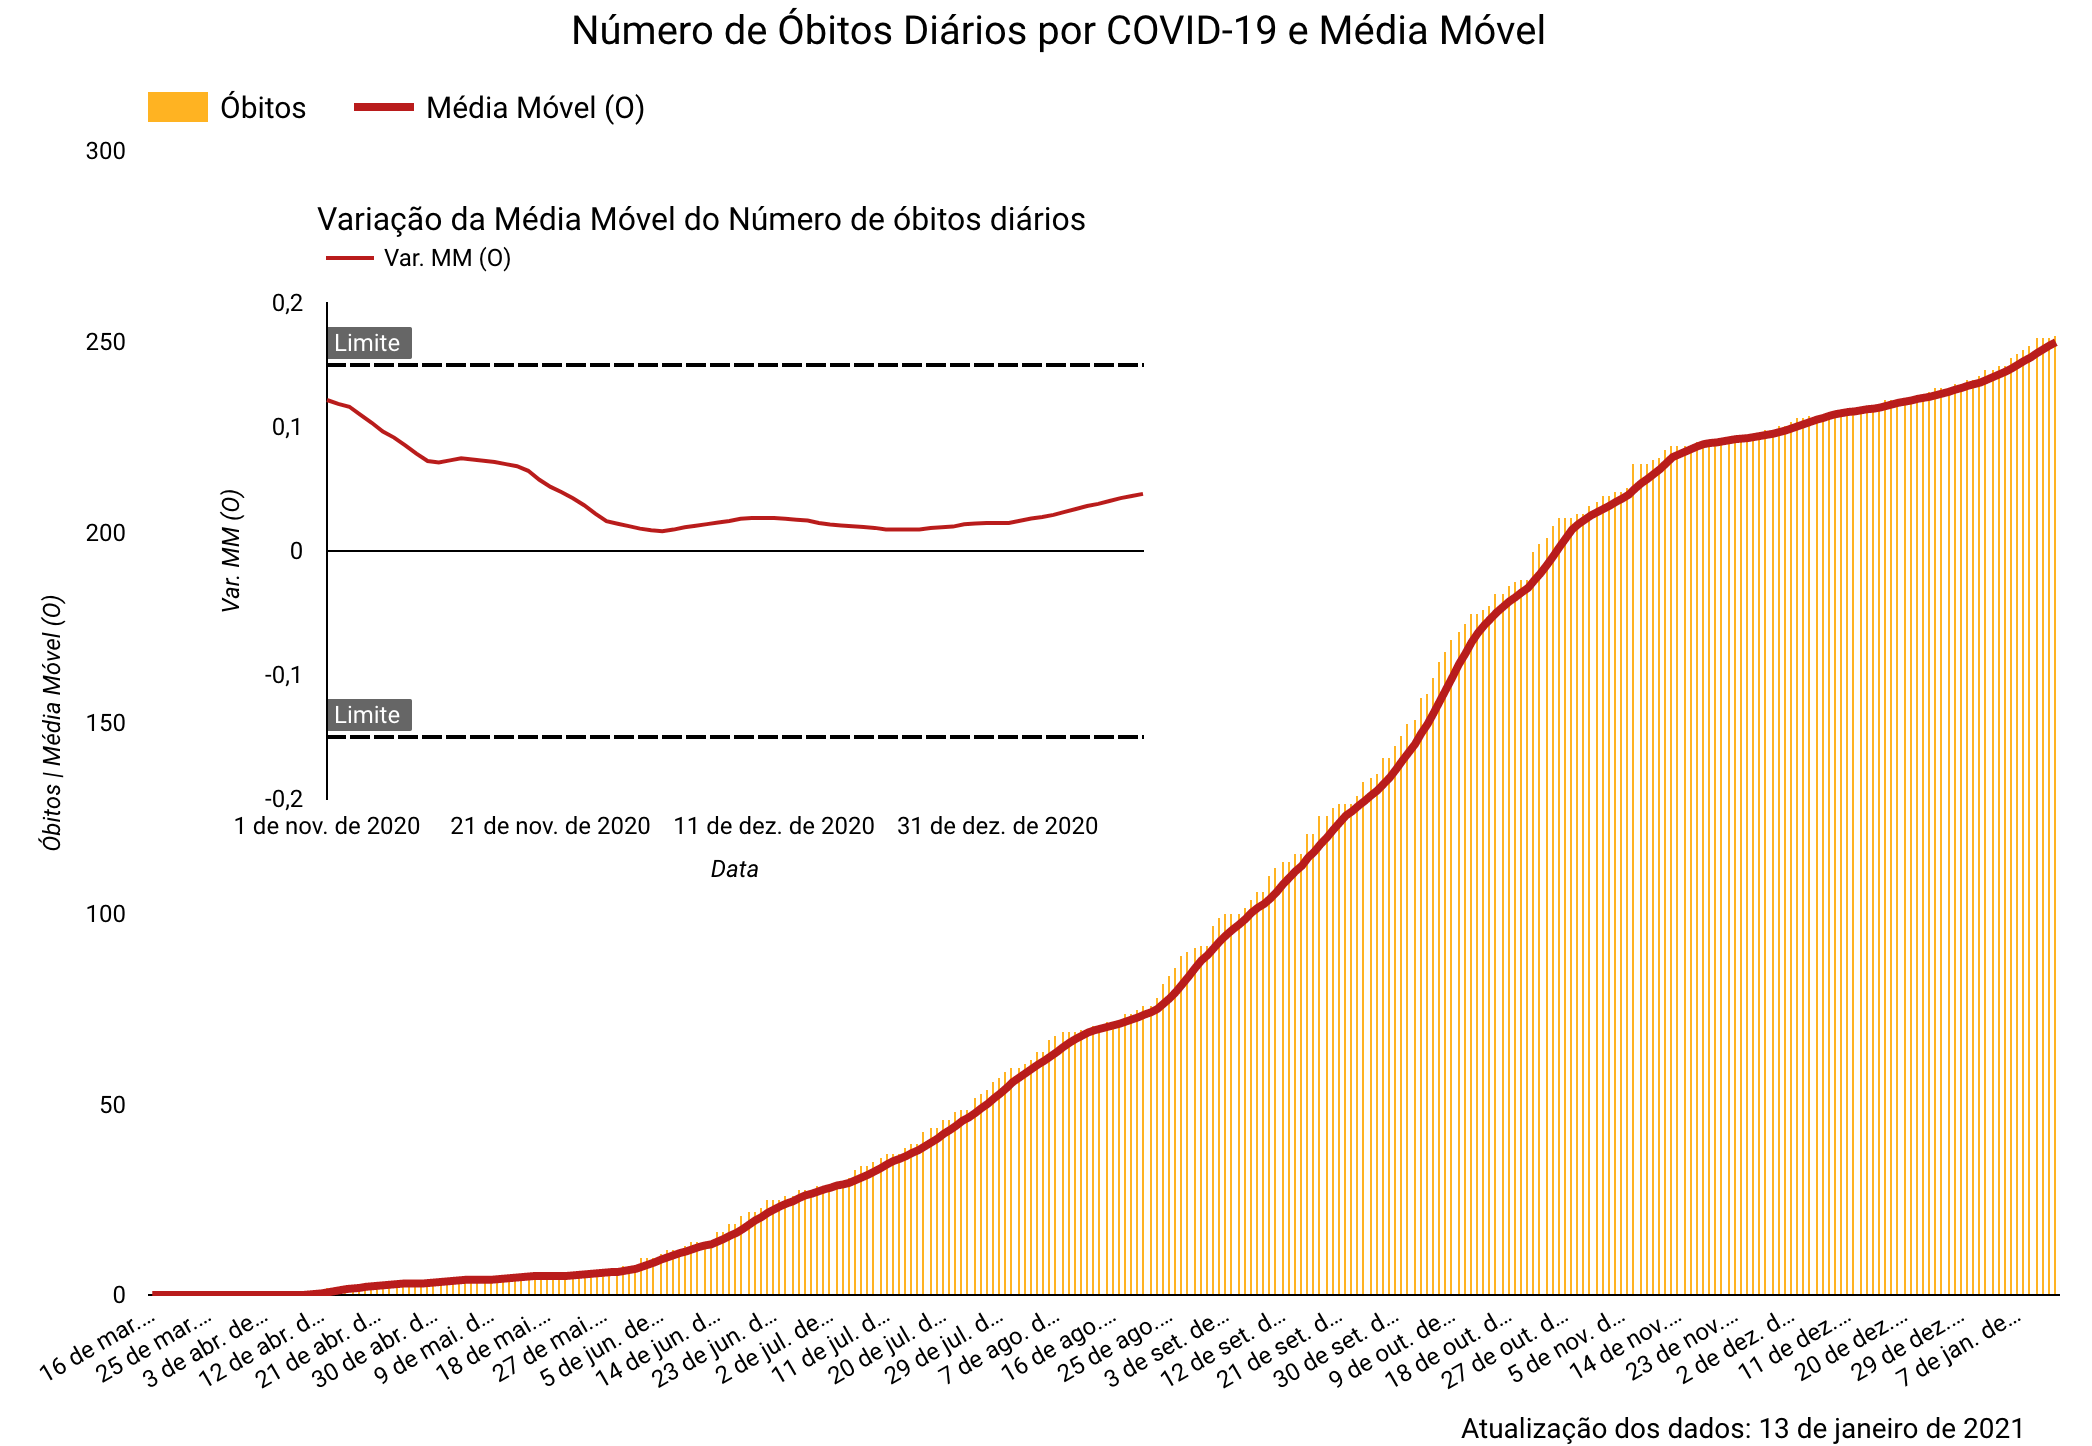
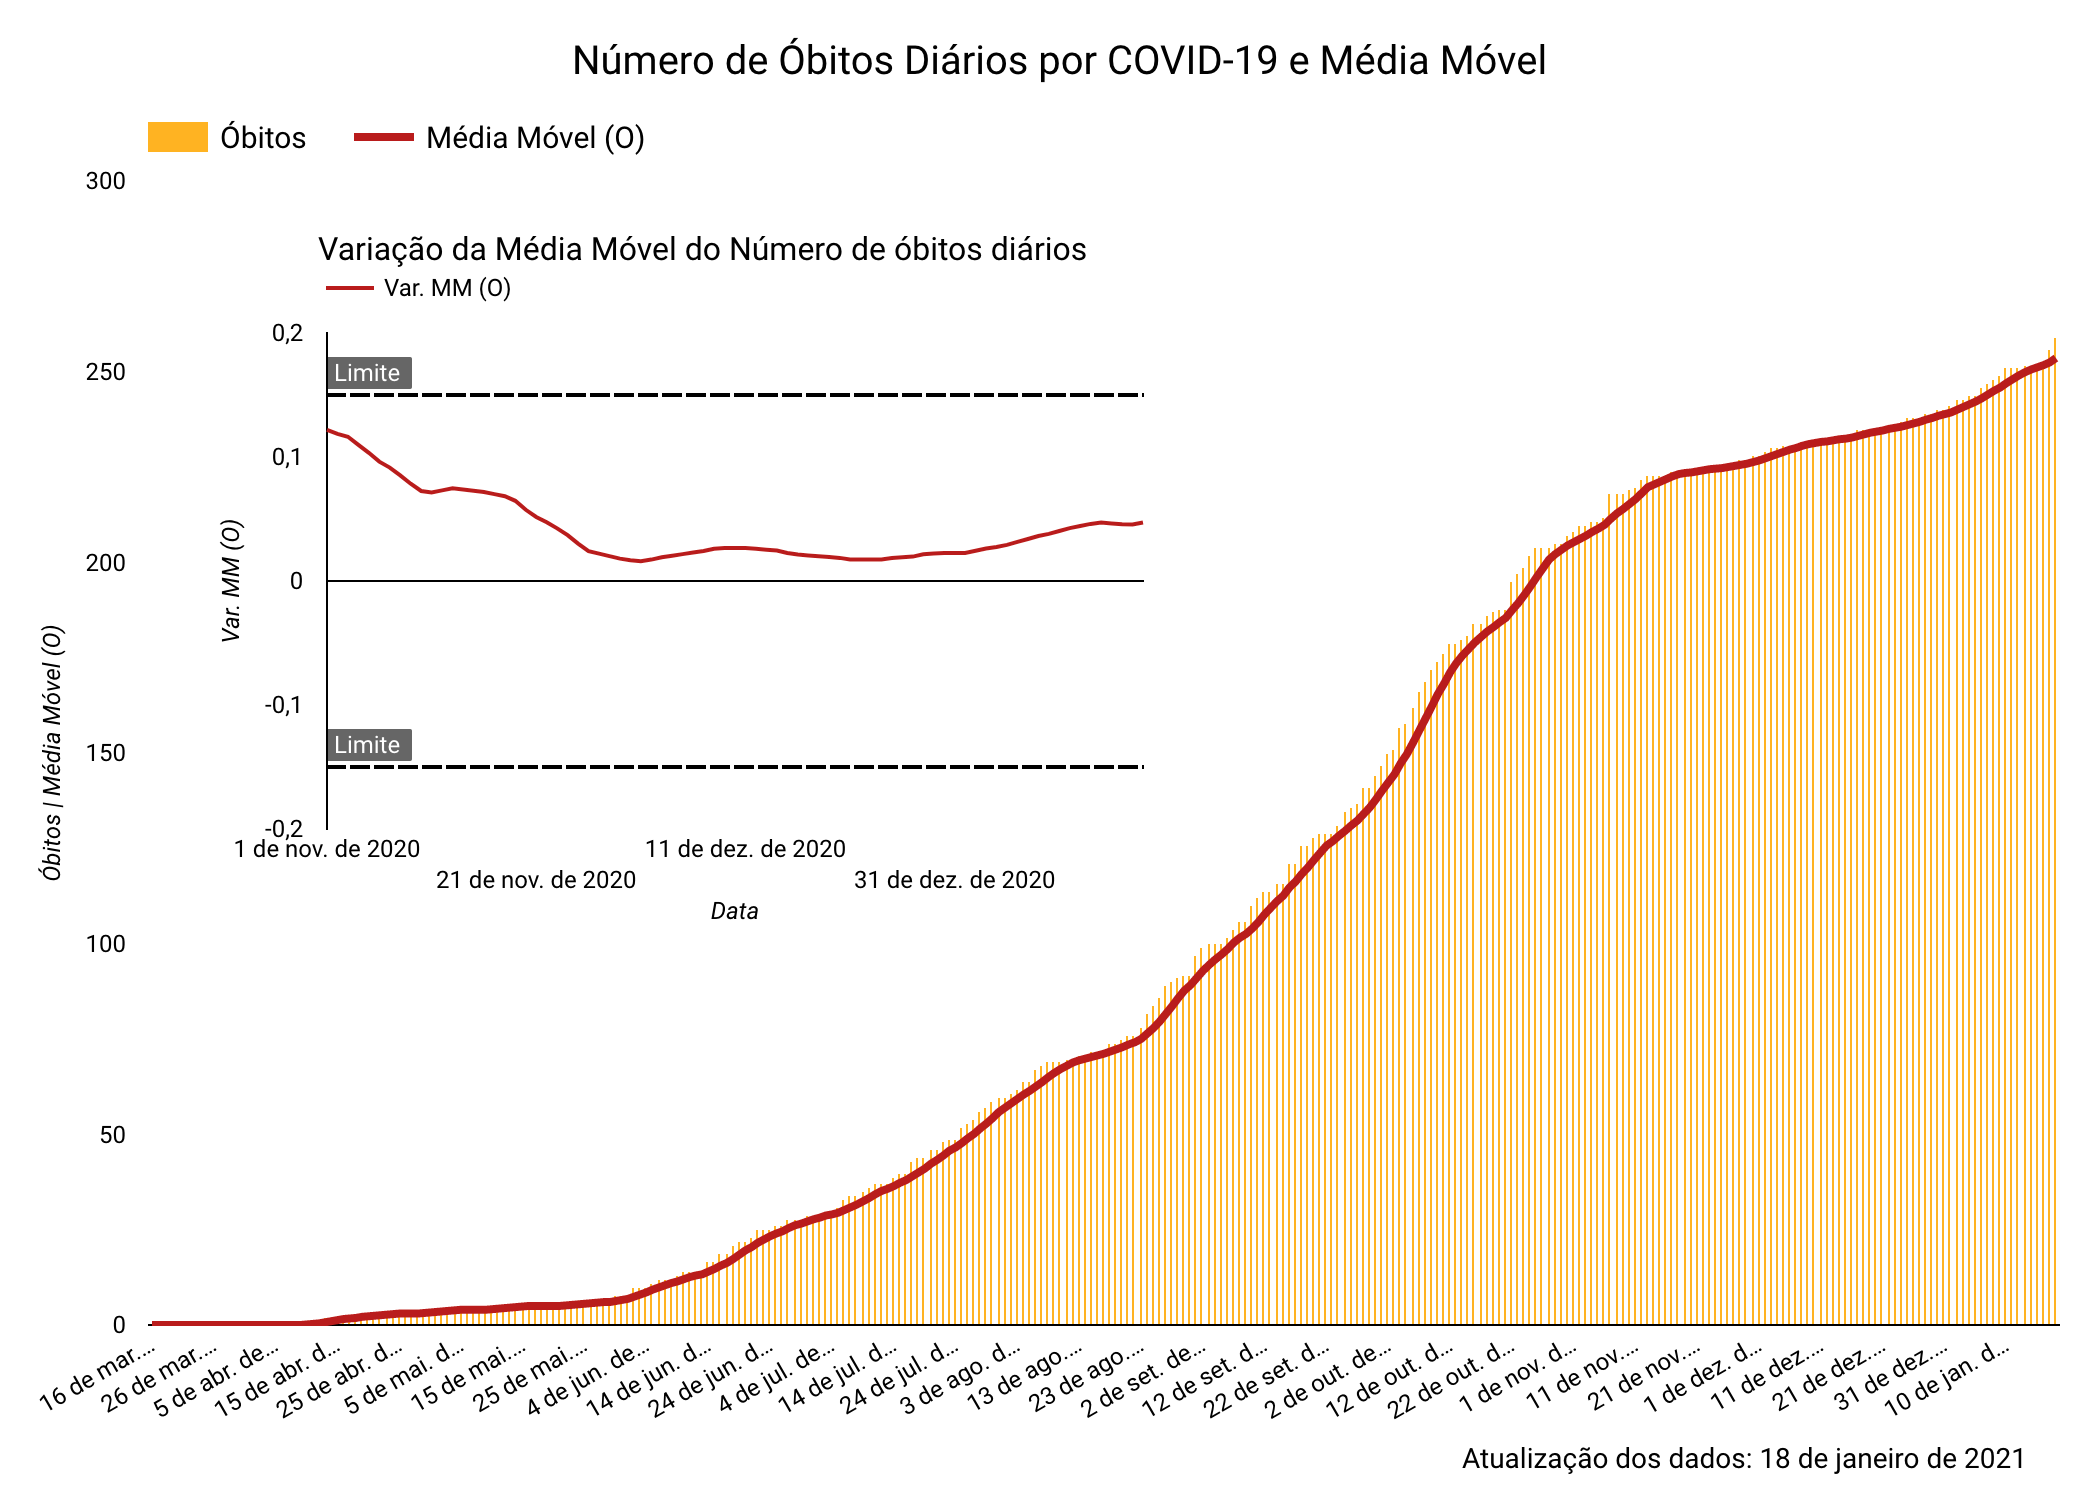
atualizacao

diff --git a/index.html b/index.html
@@ -135,7 +135,7 @@
               <!-- CARD.TITLE.TEXT -->
               <h2 class="display">Casos de Uberaba</h2>
             <!--/a-->
-            <p class="card-text">Dados e projeções para o município de Uberaba, informações até o dia 13 de janeiro de 2021. Informações coletadas com a própria Secretaria Municipal de Saúde de Uberaba e pelo monitoramento diário</p>
+            <p class="card-text">Dados e projeções para o município de Uberaba, informações até o dia 18 de janeiro de 2021. Informações coletadas com a própria Secretaria Municipal de Saúde de Uberaba e pelo monitoramento diário</p>
             <!-- CARD.TITLE.DESCRIPTION -->
           </div>
         </div>
@@ -147,8 +147,8 @@
 
         <p class="text-justify mt-3">
             <ul>
-            <li>No dia de hoje (13/01/2021), acumulamos 10964 casos notificados.</li>
-            <li>Projeção para dia 18 de janeiro é de 11423 podendo chegar até 11931 casos notificados, como indicado pela faixa cinza.</li>
+            <li>No dia de hoje (18/01/2021), acumulamos 11421 casos notificados.</li>
+            <li>Projeção para dia 23 de janeiro é de 11778 podendo chegar até 12289 casos notificados, como indicado pela faixa cinza.</li>
             <li>Pontos pretos: número de casos confirmados a cada dia.</li>
             <li>Pontos laranjas: a previsão para os próximos 5 dias.</li>
             </ul>
@@ -271,11 +271,11 @@
         Duas taxas dão importantes quando precisa entender o número de óbitos de uma doença,  a taxa de letalidade e a taxa de mortalidade. A letalidade é uma taxa que compara o número de óbitos com a quantidade de pessoas infectadas pela doença. A mortalidade é um índice obtido por uma relação dos óbitos por uma causa específica em um determinado período de tempo para cada 100.000 habitantes da área analisada.
 
         <p class="text-justify mt-3">
-        <li> A <b> taxa de letalidade </b> é calculada como o número total de óbitos dividido pelo número total de casos confirmados. Hoje, a taxa de letalidade de Uberaba é de 2,29%.</li>
+        <li> A <b> taxa de letalidade </b> é calculada como o número total de óbitos dividido pelo número total de casos confirmados. Hoje, a taxa de letalidade de Uberaba é de 2,27%.</li>
         </p>
 
         <p class="text-justify mt-3">
-        <li>A <b>taxa de mortalidade </b> é calculada considerando o número de óbitos pelo número total da população de Uberaba vezes 100 mil.Hoje, a taxa de mortalidade é de 75,5/100mil habitantes. </li>
+        <li>A <b>taxa de mortalidade </b> é calculada considerando o número de óbitos pelo número total da população de Uberaba vezes 100 mil.Hoje, a taxa de mortalidade é de 77,6/100mil habitantes. </li>
         </p>
 
         <p class="text-justify mt-3">
@@ -288,9 +288,6 @@
 
         <p class="text-center mt-3"> <b>Figura 6:</b> Total de óbitos e Variação da média móvel</p>
 
-        <p class="text-justify mt-3">
-        A Figura 6 apresenta a evolução do número de óbitos aos longo dos meses da pandemia
-        </p>
 
         <a target="_blank">
           <img src="./web/municipios/MG/Uberaba/obitosmensal.png" class="img-fluid" style="max-height:600px;" alt="Gŕafico mostrando os indicadores da cidade de Uberaba.">
@@ -303,7 +300,7 @@
         </div>
 
         <p class="text-justify mt-3">
-        O gráfico da Figura 8 apresenta a ocupação dos leitos de UTI na cidade de Uberaba. Atualmente a cidade está com 40% dos leitos de UTI ocupados, sendo que alguns hospitais já apresentam sinais de esgotamento.
+        O gráfico da Figura 8 apresenta a ocupação dos leitos de UTI na cidade de Uberaba.
         </p>
 
         <a target="_blank">
